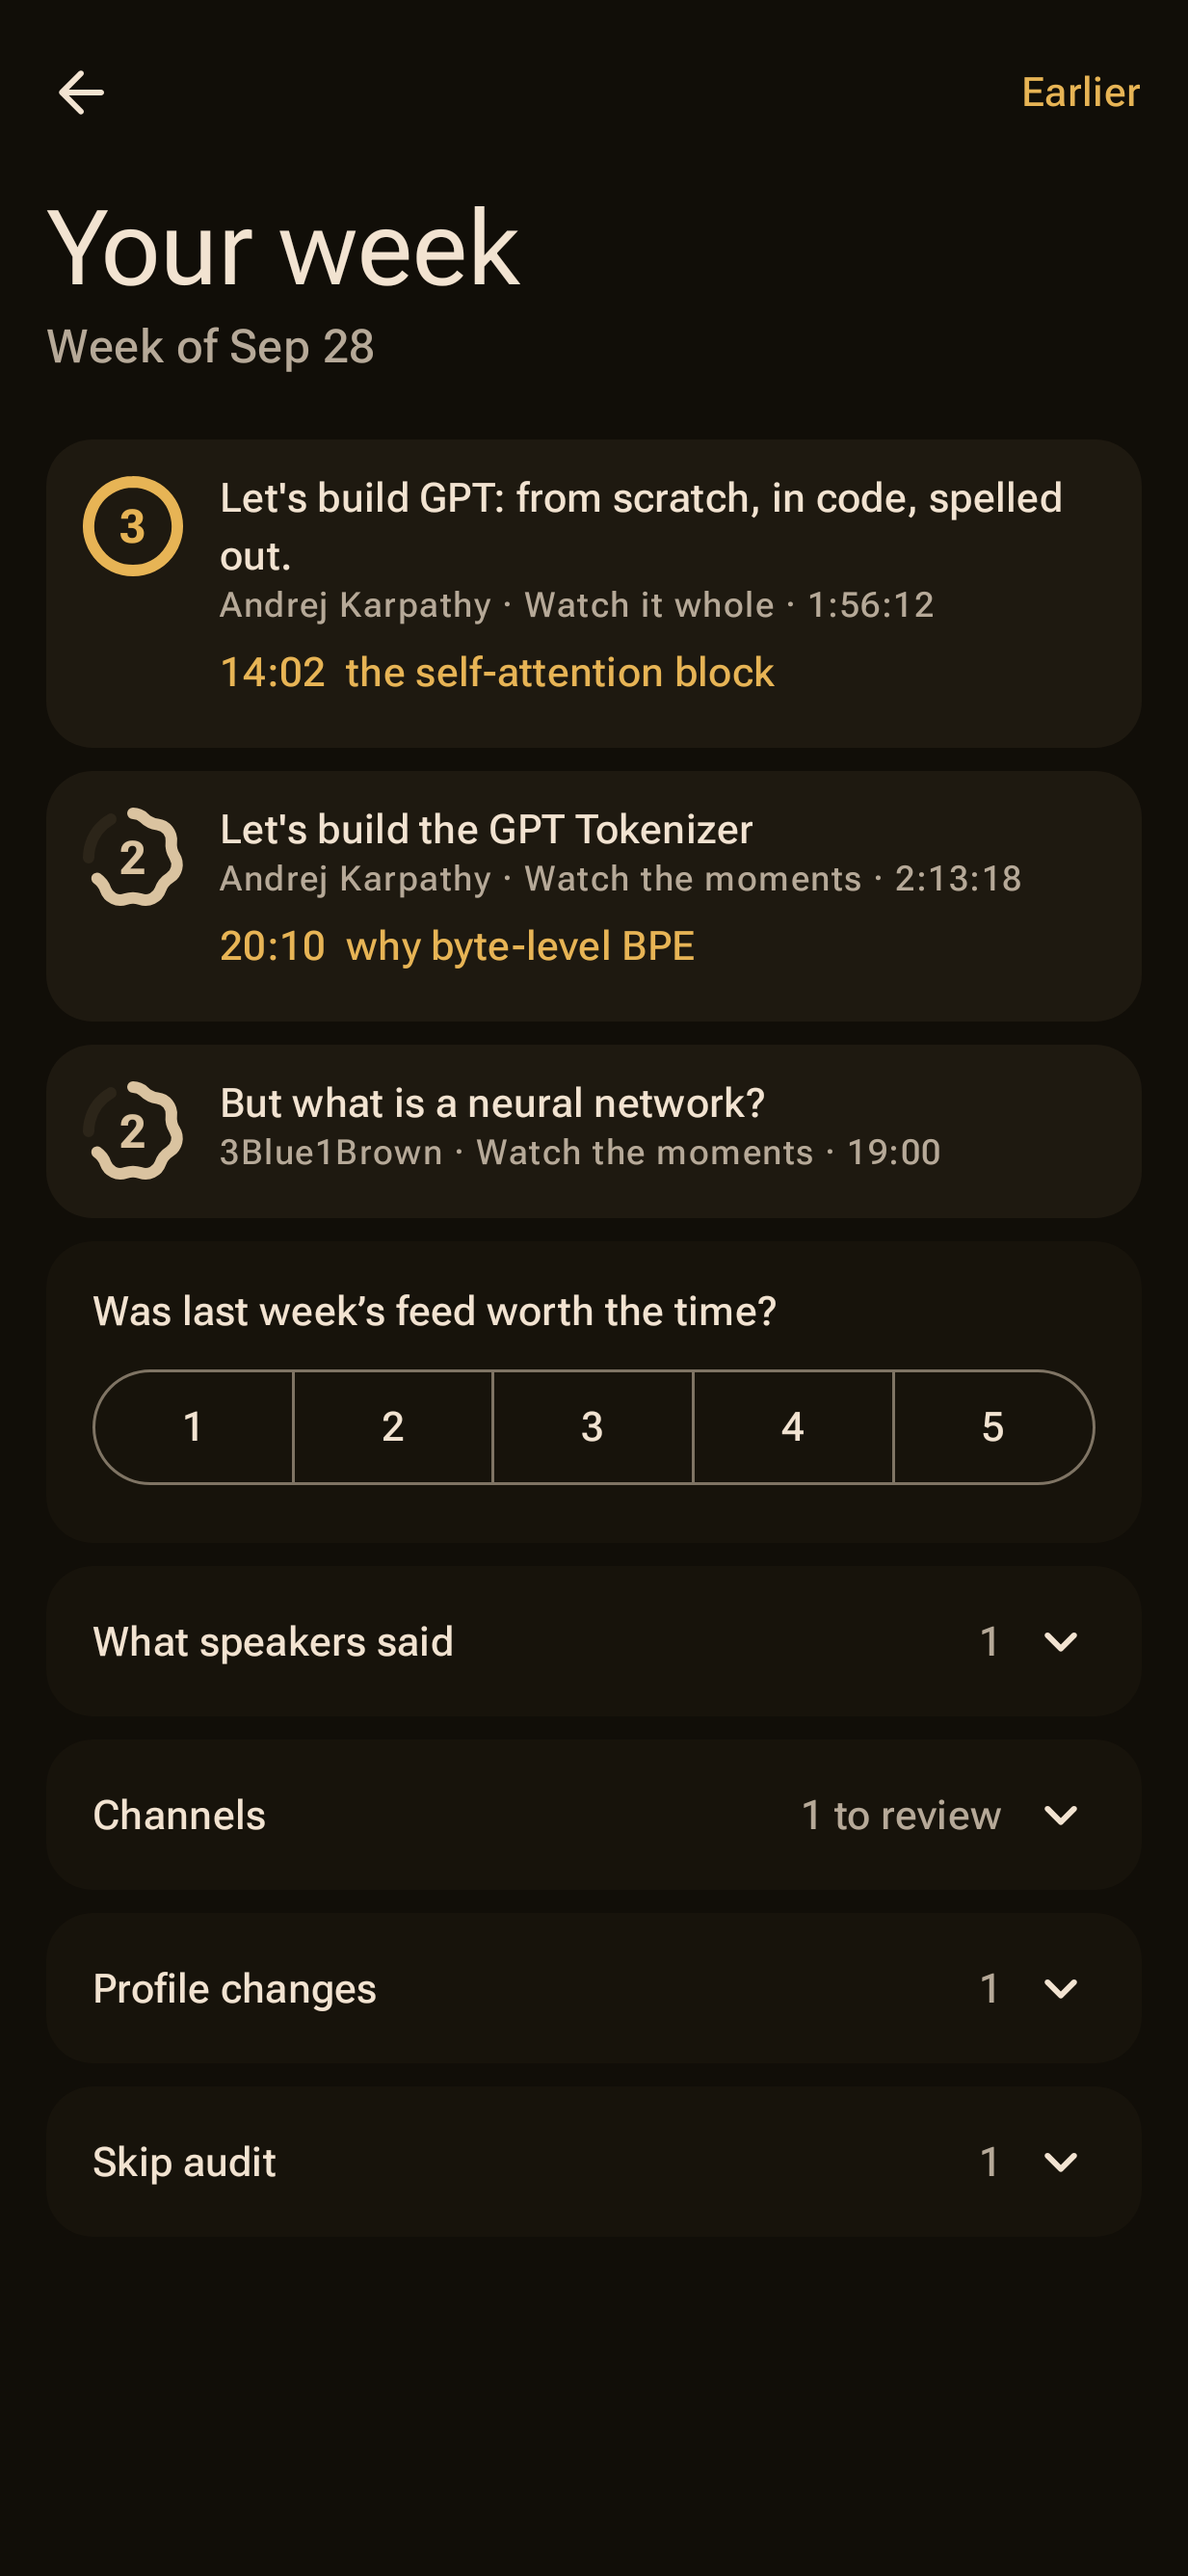
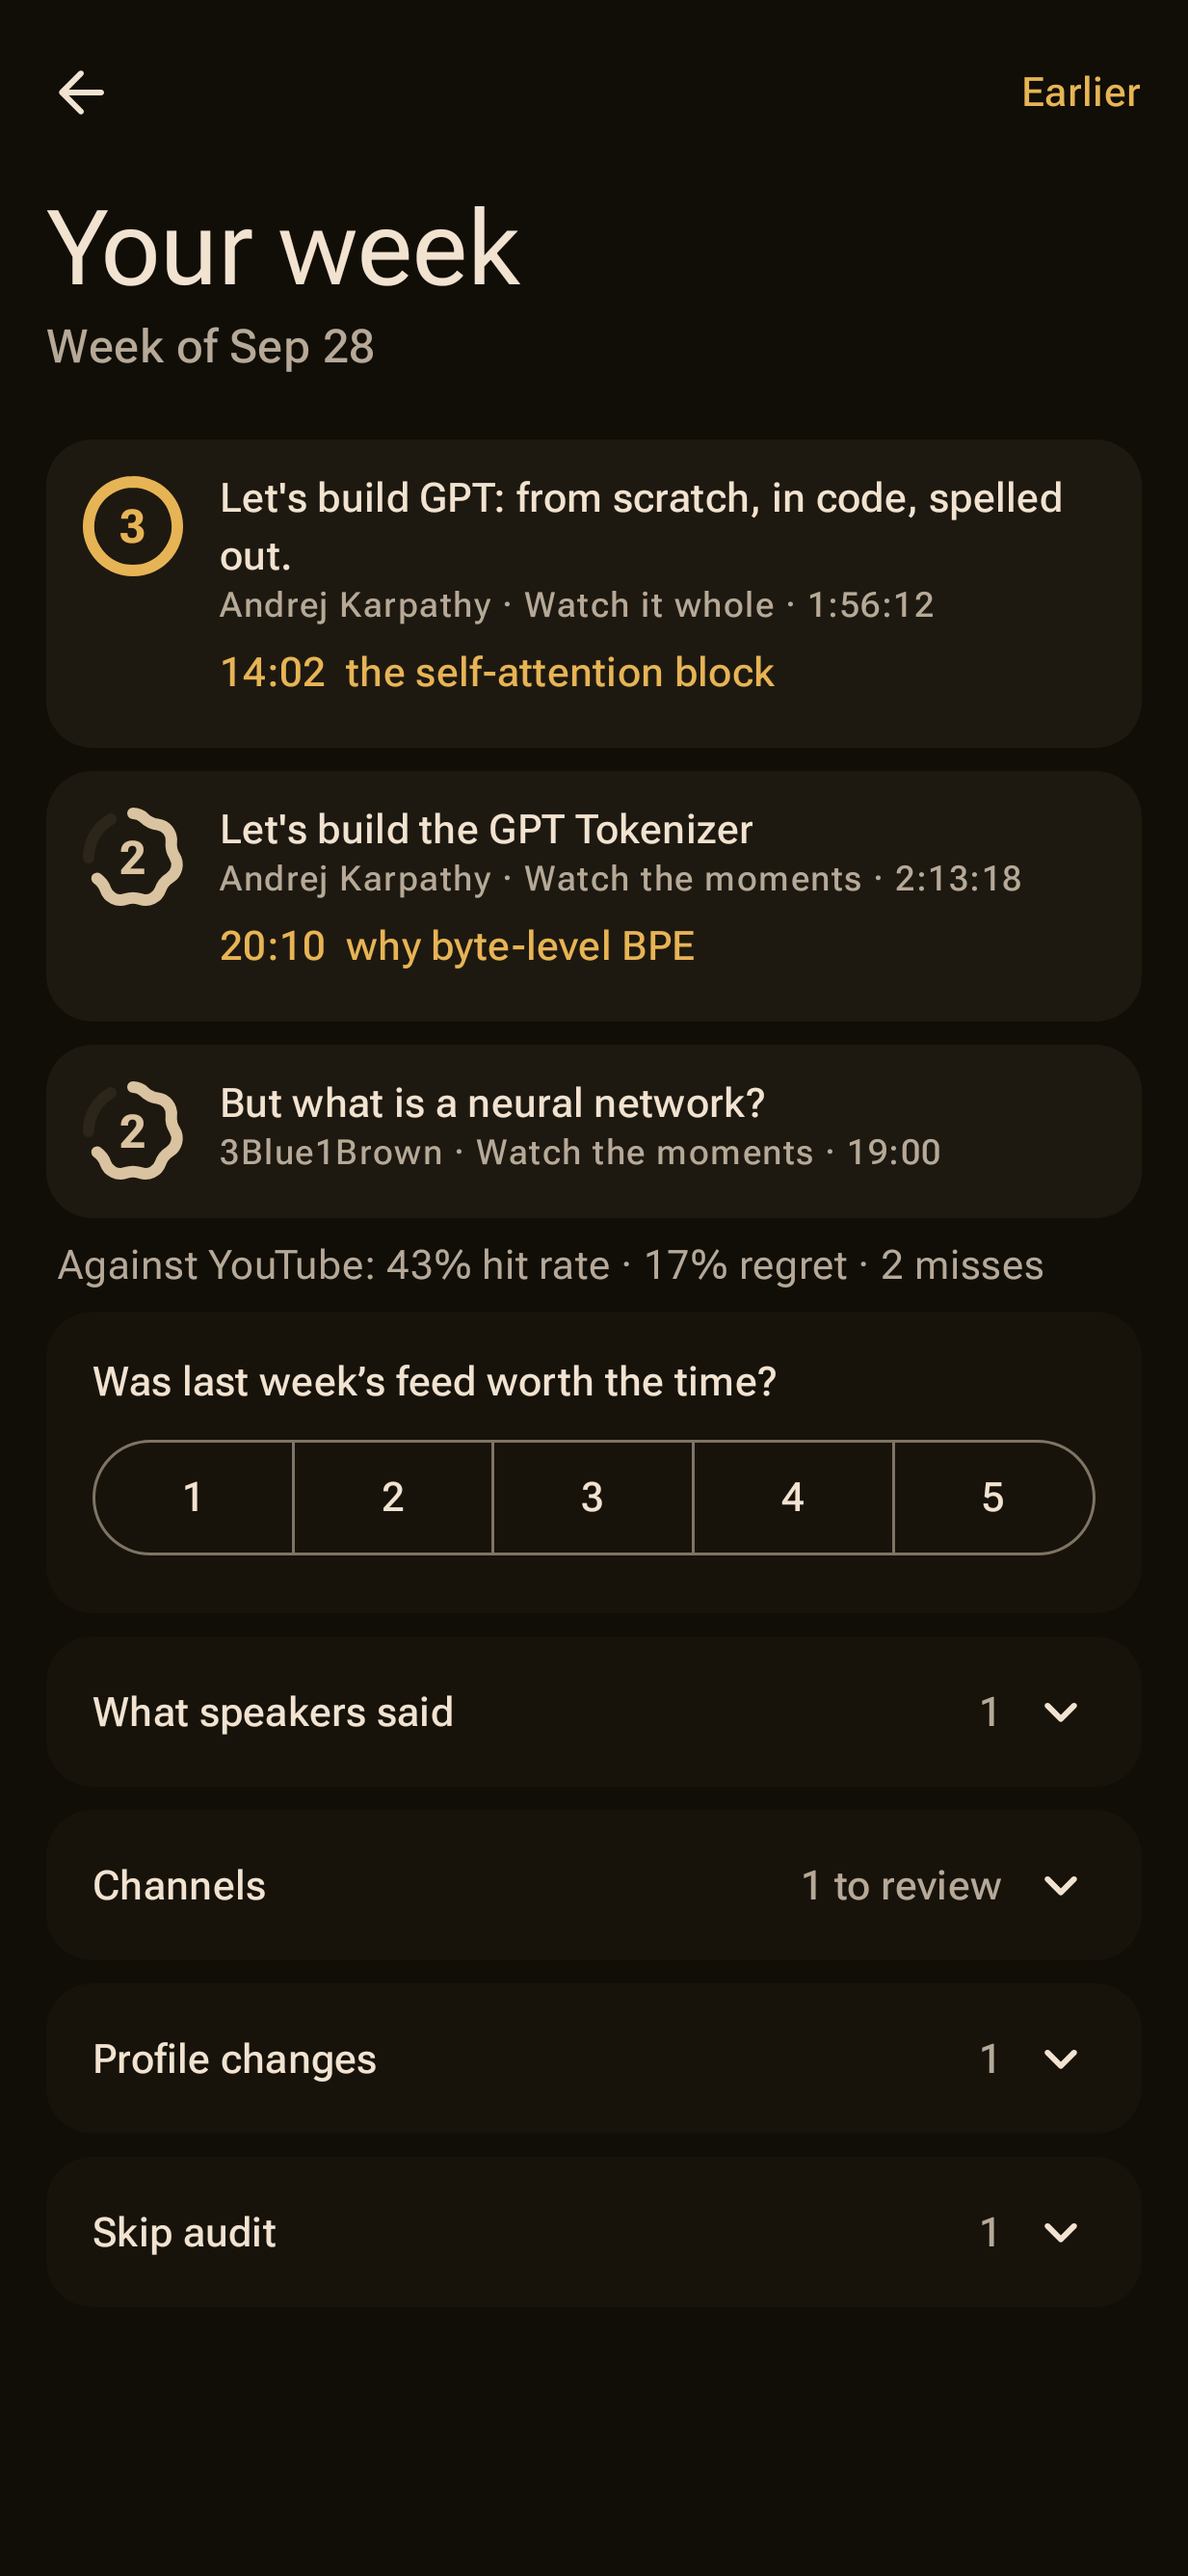
brief: the week's line of the valued-time ledger fills its slot
#157's ledger has landed; the brief shows its own week of it, and an
"I'd watch this" there counts as a miss.

diff --git a/android/app/src/main/kotlin/dev/vidtheque/app/ui/brief/BriefScreen.kt b/android/app/src/main/kotlin/dev/vidtheque/app/ui/brief/BriefScreen.kt
@@ -60,6 +60,7 @@ import dev.vidtheque.app.data.Receipt
 import dev.vidtheque.app.ui.ScoreDial
 import dev.vidtheque.app.ui.duration
 import dev.vidtheque.app.ui.openLink
+import dev.vidtheque.app.ui.profile.percent
 import dev.vidtheque.app.ui.scoreWord
 
 @Composable
@@ -136,6 +137,16 @@ fun BriefContent(
             ui.error?.let { item { Text(it, style = MaterialTheme.typography.bodyMedium, color = MaterialTheme.colorScheme.error) } }
             if (brief.picks.isEmpty()) item { Text("Nothing scored worth your time this week.", style = MaterialTheme.typography.bodyLarge) }
             items(brief.picks, key = { "pick-${it.videoId}" }) { pick -> PickCard(pick, onOpen, onLink) }
+            brief.ledger?.weeks?.firstOrNull()?.let { week ->
+                item(key = "ledger") {
+                    Text(
+                        "Against YouTube: ${percent(week.hits.rate)} hit rate · ${percent(week.regret.rate)} regret · ${week.misses.count} " + if (week.misses.count == 1) "miss" else "misses",
+                        style = MaterialTheme.typography.bodyMedium,
+                        color = MaterialTheme.colorScheme.onSurfaceVariant,
+                        modifier = Modifier.padding(horizontal = 4.dp),
+                    )
+                }
+            }
             item(key = "checkin") { CheckinCard(brief, ui, onCheckin) }
             briefFolds(brief, skips, ui.busy, onLink, onRevert, onPause, onAudit, onEase)
         }

diff --git a/web/src/app/(feed)/feed/brief/BriefView.tsx b/web/src/app/(feed)/feed/brief/BriefView.tsx
@@ -81,6 +81,8 @@ export function BriefView({ week }: { week: string | null }) {
         )}
       </section>
 
+      {b.ledger ? <Ledger ledger={b.ledger} /> : null}
+
       <Checkin week={b.week} stored={b.checkin} />
 
       <details className={styles.more}>
@@ -157,6 +159,19 @@ export function BriefView({ week }: { week: string | null }) {
         </ul>
       </details>
     </div>
+  );
+}
+
+/** The week against YouTube (§3.3), in one line. */
+function Ledger({ ledger }: { ledger: NonNullable<Brief["ledger"]> }) {
+  const week = ledger.weeks[0];
+  if (!week) return null;
+  const percent = (rate: number | null) => (rate === null ? "–" : `${Math.round(rate * 100)}%`);
+  return (
+    <p className={styles.quiet}>
+      Against YouTube: {percent(week.hits.rate)} hit rate · {percent(week.regret.rate)} regret ·{" "}
+      {week.misses.count} {week.misses.count === 1 ? "miss" : "misses"}
+    </p>
   );
 }
 

diff --git a/web/src/lib/dashboard/schemas/brief.ts b/web/src/lib/dashboard/schemas/brief.ts
@@ -1,6 +1,7 @@
 import { z } from "zod";
 import { count, epoch, httpUrl, seconds } from "./common";
 import { FeedbackState, Match, Moment } from "./feed";
+import { ValuedTime } from "./valued-time";
 
 // The weekly brief (dashboard.md §26, companion.md §6.1).
 
@@ -76,8 +77,8 @@ export const Brief = z.object({
     BriefVideo.extend({ sunk_by: Match.nullable(), answer: z.enum(["right", "wrong"]).nullable() }),
   ),
   checkin: z.object({ rating: count(), missing: z.string().nullable(), at: epoch() }).nullable(),
-  /** #157's weekly numbers; null until the ledger lands. */
-  ledger: z.unknown().nullable(),
+  /** This week of the valued-time ledger (§25.12); null past the weeks it reads. */
+  ledger: ValuedTime.nullable(),
 });
 export type Brief = z.infer<typeof Brief>;
 

diff --git a/android/app/src/test/kotlin/dev/vidtheque/app/ScreenshotTest.kt b/android/app/src/test/kotlin/dev/vidtheque/app/ScreenshotTest.kt
@@ -141,5 +141,6 @@ private val BRIEF = Brief(
         ChannelCard("hype-daily", "Hype Daily", "active", 6, 0.0, 0.0, suggestPause = true),
     ),
     profileChanges = listOf(Change(3, "reweight", 3, EntryState("Local inference on consumer GPUs", 0.3, true), EntryState("Local inference on consumer GPUs", 0.6, true), "4 asks this week")),
+    ledger = ValuedTime(0.1, listOf(Week(1_790_546_400, true, Hits(3, 7, 0.429), Regret(1, 6, 0.167), Misses(2, 1, 1)))),
     audit = listOf(Audited("eMlx5fFNoYc", "Visualizing transformers", "3Blue1Brown", "Launch coverage, no benchmarks.", HYPE)),
 )

diff --git a/web/src/app/(feed)/feed/brief/BriefView.test.tsx b/web/src/app/(feed)/feed/brief/BriefView.test.tsx
@@ -42,6 +42,9 @@ function mount() {
 describe("BriefView", () => {
   it("rates the week, then saves what was missing with it", async () => {
     const view = await mount();
+    expect(
+      await screen.findByText(/Against YouTube: 43% hit rate · 17% regret · 2 misses/),
+    ).toBeInTheDocument();
     await userEvent.click(await screen.findByRole("button", { name: "4" }));
     await userEvent.type(screen.getByLabelText("What was missing (optional)"), "GPU talks");
     await userEvent.click(screen.getByRole("button", { name: "Save" }));

diff --git a/web/src/test/feed/fixtures.ts b/web/src/test/feed/fixtures.ts
@@ -227,5 +227,16 @@ export const BRIEF = {
   ],
   audit: [{ ...SKIPPED.items[0], sunk_by: HYPE, answer: null }],
   checkin: null,
-  ledger: null,
+  ledger: {
+    regret_target: 0.1,
+    weeks: [
+      {
+        start: 1790546400,
+        current: true,
+        hits: { kept: 3, offered: 7, rate: 0.429, capped: false },
+        regret: { down: 1, watched: 6, rate: 0.167, capped: false },
+        misses: { count: 2, pending: 1, shared: 1, capped: false },
+      },
+    ],
+  },
 };

diff --git a/android/app/src/main/kotlin/dev/vidtheque/app/data/Api.kt b/android/app/src/main/kotlin/dev/vidtheque/app/data/Api.kt
@@ -259,6 +259,8 @@ data class Brief(
     @SerialName("profile_changes") val profileChanges: List<Change> = emptyList(),
     val audit: List<Audited> = emptyList(),
     val checkin: Checkin? = null,
+    /** This week of the valued-time ledger (§25.12); null past the weeks it reads. */
+    val ledger: ValuedTime? = null,
 )
 
 /** "Ease the entry that sank it to [to]?" — applied only when the reader says so. */

diff --git a/mcp/tests/test_brief.py b/mcp/tests/test_brief.py
@@ -171,7 +171,10 @@ def client(tmp_path: Path):
 def test_the_brief_reads_live_parts_and_refuses_what_it_should(client: TestClient) -> None:
     assert client.get(f"{API}/brief").status_code == 401
     brief = client.get(f"{API}/brief", headers=BEARER).json()
-    assert brief["week"] == client.week and brief["ledger"] is None  # type: ignore[attr-defined]
+    assert brief["week"] == client.week  # type: ignore[attr-defined]
+    # The brief's own week of the ledger, in valued-time's shape.
+    [week] = brief["ledger"]["weeks"]
+    assert week["current"] is True and week["start"] == brief["since"]
     assert brief["picks"][0]["moments"][0]["url"].startswith("https://youtu.be/kCc8FmEb1nY?t=")
     sunk = {a["video_id"]: a["sunk_by"] for a in brief["audit"]}
     assert sunk["eMlx5fFNoYc"]["text"] == "Launch hype" and sunk["skip0"] is None
@@ -204,8 +207,10 @@ def test_id_watch_this_is_a_thumb_and_a_proposal_never_a_reweight(client: TestCl
     assert wrong["proposal"]["text"] == "Launch hype" and wrong["proposal"]["to"] == pytest.approx(-0.4)
     entries = {e["text"]: e["weight"] for e in client.get(f"{API}/profile", headers=BEARER).json()["entries"]}
     assert entries["Launch hype"] == pytest.approx(-0.7)
-    audit = {a["video_id"]: a["answer"] for a in client.get(f"{API}/brief", headers=BEARER).json()["audit"]}
-    assert audit["eMlx5fFNoYc"] == "wrong"
+    brief = client.get(f"{API}/brief", headers=BEARER).json()
+    assert {a["video_id"]: a["answer"] for a in brief["audit"]}["eMlx5fFNoYc"] == "wrong"
+    # #157's ledger counts it as a miss.
+    assert brief["ledger"]["weeks"][0]["misses"]["count"] == 1
 
     # Taking it back takes back the thumb it set.
     right = client.post(f"{API}/skips", json={"video_id": "eMlx5fFNoYc", "answer": "right"}, headers=JSON_BEARER).json()

diff --git a/mcp/src/vidtheque_mcp/brief/build.py b/mcp/src/vidtheque_mcp/brief/build.py
@@ -15,6 +15,7 @@ from dataclasses import dataclass
 from datetime import date, datetime, time, timedelta
 from typing import Any
 
+from ..profile import ledger
 from ..text import deeplink
 from ..verdicts import store as verdicts_store
 
@@ -304,9 +305,18 @@ def assemble(conn: sqlite3.Connection, row: sqlite3.Row, now: int, owner_id: int
         "profile_changes": profile_changes(conn, int(row["since_at"]), int(row["until_at"]), owner_id),
         "audit": [a for a in (_audit(conn, vid, owner_id) for vid in body.get("audit", [])) if a is not None],
         "checkin": dict(checkin) if checkin else None,
-        # The valued-time ledger (#157) fills this slot once it lands.
-        "ledger": None,
+        "ledger": _ledger(conn, row, now, owner_id),
     }
+
+
+def _ledger(conn: sqlite3.Connection, row: sqlite3.Row, now: int, owner_id: int) -> dict[str, Any] | None:
+    """The brief's week in the valued-time ledger (#157), in `GET valued-time`'s shape.
+
+    None for a week older than the ledger reads.
+    """
+    read = ledger.weeks(conn, datetime.fromtimestamp(now).astimezone(), owner_id=owner_id)
+    week = next((w for w in read["weeks"] if w["start"] == int(row["since_at"])), None)
+    return {"regret_target": read["regret_target"], "weeks": [week]} if week else None
 
 
 def _verdict_row(conn: sqlite3.Connection, public_id: str, owner_id: int) -> sqlite3.Row | None:

diff --git a/docs/design/dashboard.md b/docs/design/dashboard.md
@@ -3923,7 +3923,8 @@ and so is the latest before the first Sunday.
             "sunk_by": {"entry_id": 36, "text": "Launch hype", "direction": "down", "strength": 2},
             "answer": null}],
  "checkin": {"rating": 4, "missing": "more GPU talks", "at": 1791110000},
- "ledger": null}
+ "ledger": {"regret_target": 0.1, "weeks": [{"start": 1790546400, "current": true, "hits": {…},
+                                            "regret": {…}, "misses": {…}}]}}
 ```
 
 `picks`, `audit` and `said` are what the brief kept on Sunday; a video deleted
@@ -3935,8 +3936,9 @@ asked: the channel report covers the last 30 days, at most 100 follows,
 flagged ones first; `profile_changes` are the week's `nightly` events, at
 most 20, newest first, `reverted` once a later revert touched the entry; the
 page reverts one through `POST profile/revert` (§25.5) and pauses a channel
-through `POST /dashboard/following/{slug}/state` (§21). `ledger` stays `null`
-until #157's ledger lands.
+through `POST /dashboard/following/{slug}/state` (§21). `ledger` is the brief's
+week of the valued-time ledger in §25.12's shape, one week long, or `null` once
+the week is older than the eight the ledger reads.
 
 ### 26.2 `POST /dashboard/api/brief/checkin`
 

diff --git a/docs/design/companion.md b/docs/design/companion.md
@@ -530,7 +530,7 @@ about one phone screen: long parts open on a tap.
   watched it?", yes or no each.
 - **Check-in**: "Was last week's feed worth the time? 1–5", plus an optional
   "what was missing" line.
-- **The ledger**'s weekly numbers (#157), once it lands.
+- **The ledger** for that week (§3.3): hit rate, regret and misses, in one line.
 
 **Why skipped, with a fix.** Every skipped row, in the feed and in the audit,
 names the "less of this" entry that sank it (its strongest `down` match).
